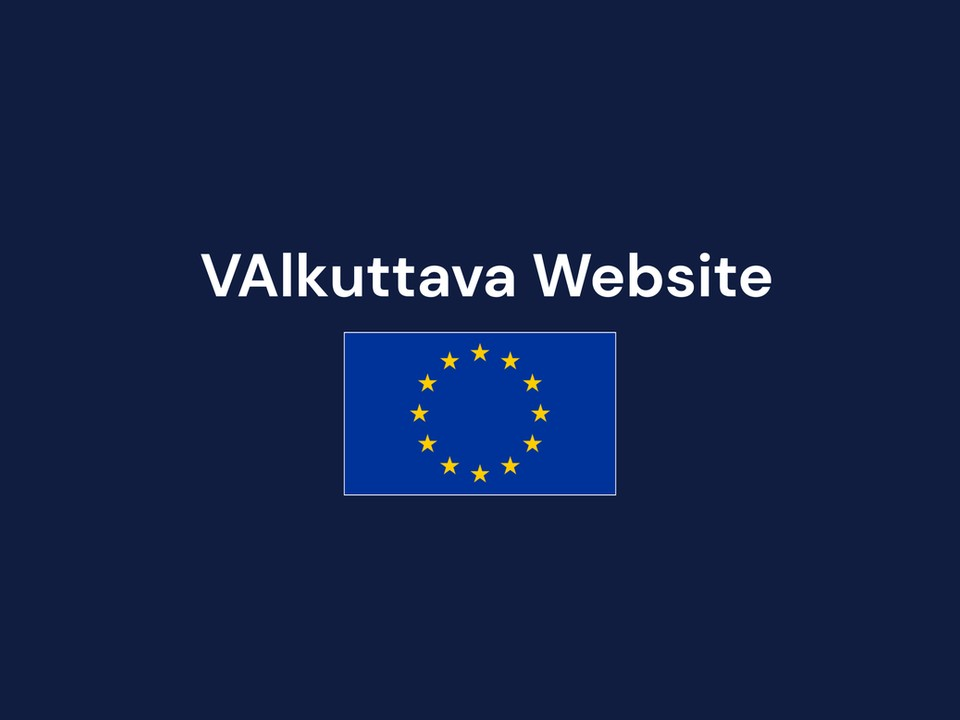
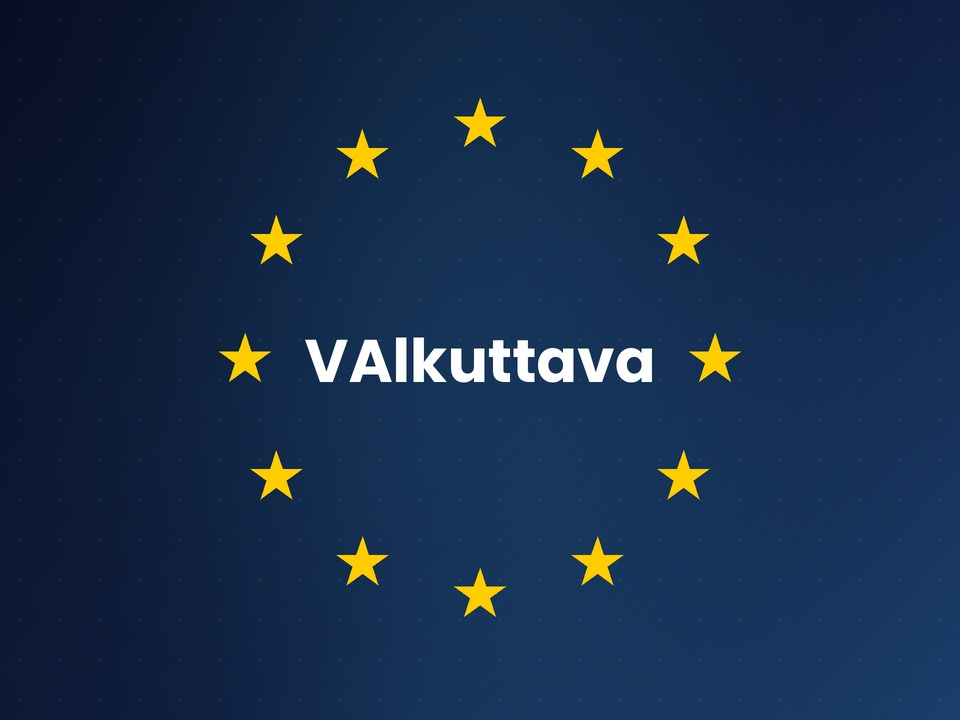
valkuttava update

diff --git a/src/data/vi.ts b/src/data/vi.ts
@@ -29,7 +29,6 @@ export const VI: Record<string, string> = {
  "Educational website funded by the EU for SMEs in Varsinais-Suomi.": "Website giáo dục do EU tài trợ dành cho các doanh nghiệp vừa và nhỏ ở vùng Tây Nam Phần Lan.",
  "UI Design · UX Research · Developer Collaboration · A/B Testing · Team (4 Members)": "Thiết kế UI · Nghiên cứu UX · Phối hợp với lập trình viên · A/B Testing · Nhóm (4 thành viên)",
  "VAlkuttava Website - Design an AI educational website": "VAlkuttava Website - Thiết kế website giáo dục về AI",
- "Valkuttava Website title above the EU flag on a dark navy background": "Tiêu đề Valkuttava Website phía trên lá cờ EU trên nền xanh navy đậm",
  "The VAlkuttava website homepage: a dark blue header with the menu, and a photo of five people laughing around a laptop under the greeting Tervetuloa VAlkuttavaan": "Trang chủ website VAlkuttava: phần đầu trang màu xanh đậm với menu, và ảnh năm người đang cười quanh một chiếc laptop bên dưới lời chào Tervetuloa VAlkuttavaan",
  "VALkuttava is an EU-funded project aimed at helping SMEs in Southwest Finland better understand AI and explore how it could be implemented in their businesses. Our goal was to design and develop a complete website from scratch, creating an accessible place for businesses to learn more about the project and its resources.": "VAlkuttava là một dự án do EU tài trợ nhằm giúp các doanh nghiệp vừa và nhỏ ở Tây Nam Phần Lan hiểu rõ hơn về AI và khám phá cách ứng dụng AI vào hoạt động kinh doanh. Mục tiêu của chúng tôi là thiết kế và phát triển một website hoàn chỉnh từ đầu, tạo ra nơi dễ tiếp cận để doanh nghiệp tìm hiểu thêm về dự án và các tài nguyên của dự án.",
  "Getting Started": "Bắt đầu",
@@ -254,5 +253,8 @@ export const VI: Record<string, string> = {
  "CLOSE ✕": "ĐÓNG ✕",
  "Show picture": "Xem ảnh",
  "Language": "Ngôn ngữ",
- "PLAY · CONTENT · MEDIA": "VUI CHƠI · NỘI DUNG · TRUYỀN THÔNG"
+ "PLAY · CONTENT · MEDIA": "VUI CHƠI · NỘI DUNG · TRUYỀN THÔNG",
+ "VAlkuttava wordmark inside a ring of yellow stars, next to two pages of the website design shown in browser windows on a dark blue background": "Chữ VAlkuttava trong một vòng tròn các ngôi sao vàng, bên cạnh hai trang thiết kế website hiển thị trong các cửa sổ trình duyệt trên nền xanh đậm",
+ "The live VAlkuttava website homepage.": "Trang chủ của website VAlkuttava đang hoạt động.",
+ "The name VAlkuttava in the middle of a ring of yellow stars on a dark blue background": "Tên VAlkuttava ở giữa một vòng tròn các ngôi sao vàng trên nền xanh đậm"
 }

diff --git a/src/data/projects.ts b/src/data/projects.ts
@@ -1,5 +1,6 @@
 // Auto-generated from the previous portfolio. Edit freely.
 import type { Project } from '../types'
+import imgValkLive from '../assets/projects/valkuttava-website-live.jpg'
 
 import img1 from '../assets/projects/social-service-app-card.jpg'
 import img2 from '../assets/projects/social-service-app-01.jpg'
@@ -212,16 +213,16 @@ export const PROJECTS: Project[] = [
     description: "Educational website funded by the EU for SMEs in Varsinais-Suomi.",
     role: "UI Design · UX Research · Developer Collaboration · A/B Testing · Team (4 Members)",
     image: img11,
-    imageAlt: "Valkuttava Website title above the EU flag on a dark navy background",
+    imageAlt: "The name VAlkuttava in the middle of a ring of yellow stars on a dark blue background",
     headline: "VAlkuttava Website - Design an AI educational website",
     tagline: "Educational website funded by the EU for SMEs in Varsinais-Suomi.",
     hero: {
       src: img12,
-      alt: "The VAlkuttava website homepage: a dark blue header with the menu, and a photo of five people laughing around a laptop under the greeting Tervetuloa VAlkuttavaan",
-      w: 1690,
-      h: 891,
+      alt: "VAlkuttava wordmark inside a ring of yellow stars, next to two pages of the website design shown in browser windows on a dark blue background",
+      w: 1800,
+      h: 900,
       fit: "cover",
-      ratio: "1690/891",
+      ratio: "1800/900",
     },
     sections: [
       {
@@ -231,6 +232,19 @@ export const PROJECTS: Project[] = [
           {
             type: "text",
             html: "VALkuttava is an EU-funded project aimed at helping SMEs in Southwest Finland better understand AI and explore how it could be implemented in their businesses. Our goal was to design and develop a complete website from scratch, creating an accessible place for businesses to learn more about the project and its resources.",
+          },
+          {
+            type: "images",
+            flush: true,
+            images: [
+              {
+                src: imgValkLive,
+                alt: "The VAlkuttava website homepage: a dark blue header with the menu, and a photo of five people laughing around a laptop under the greeting Tervetuloa VAlkuttavaan",
+                caption: "The live VAlkuttava website homepage.",
+                w: 1690,
+                h: 891,
+              },
+            ],
           },
         ],
       },
